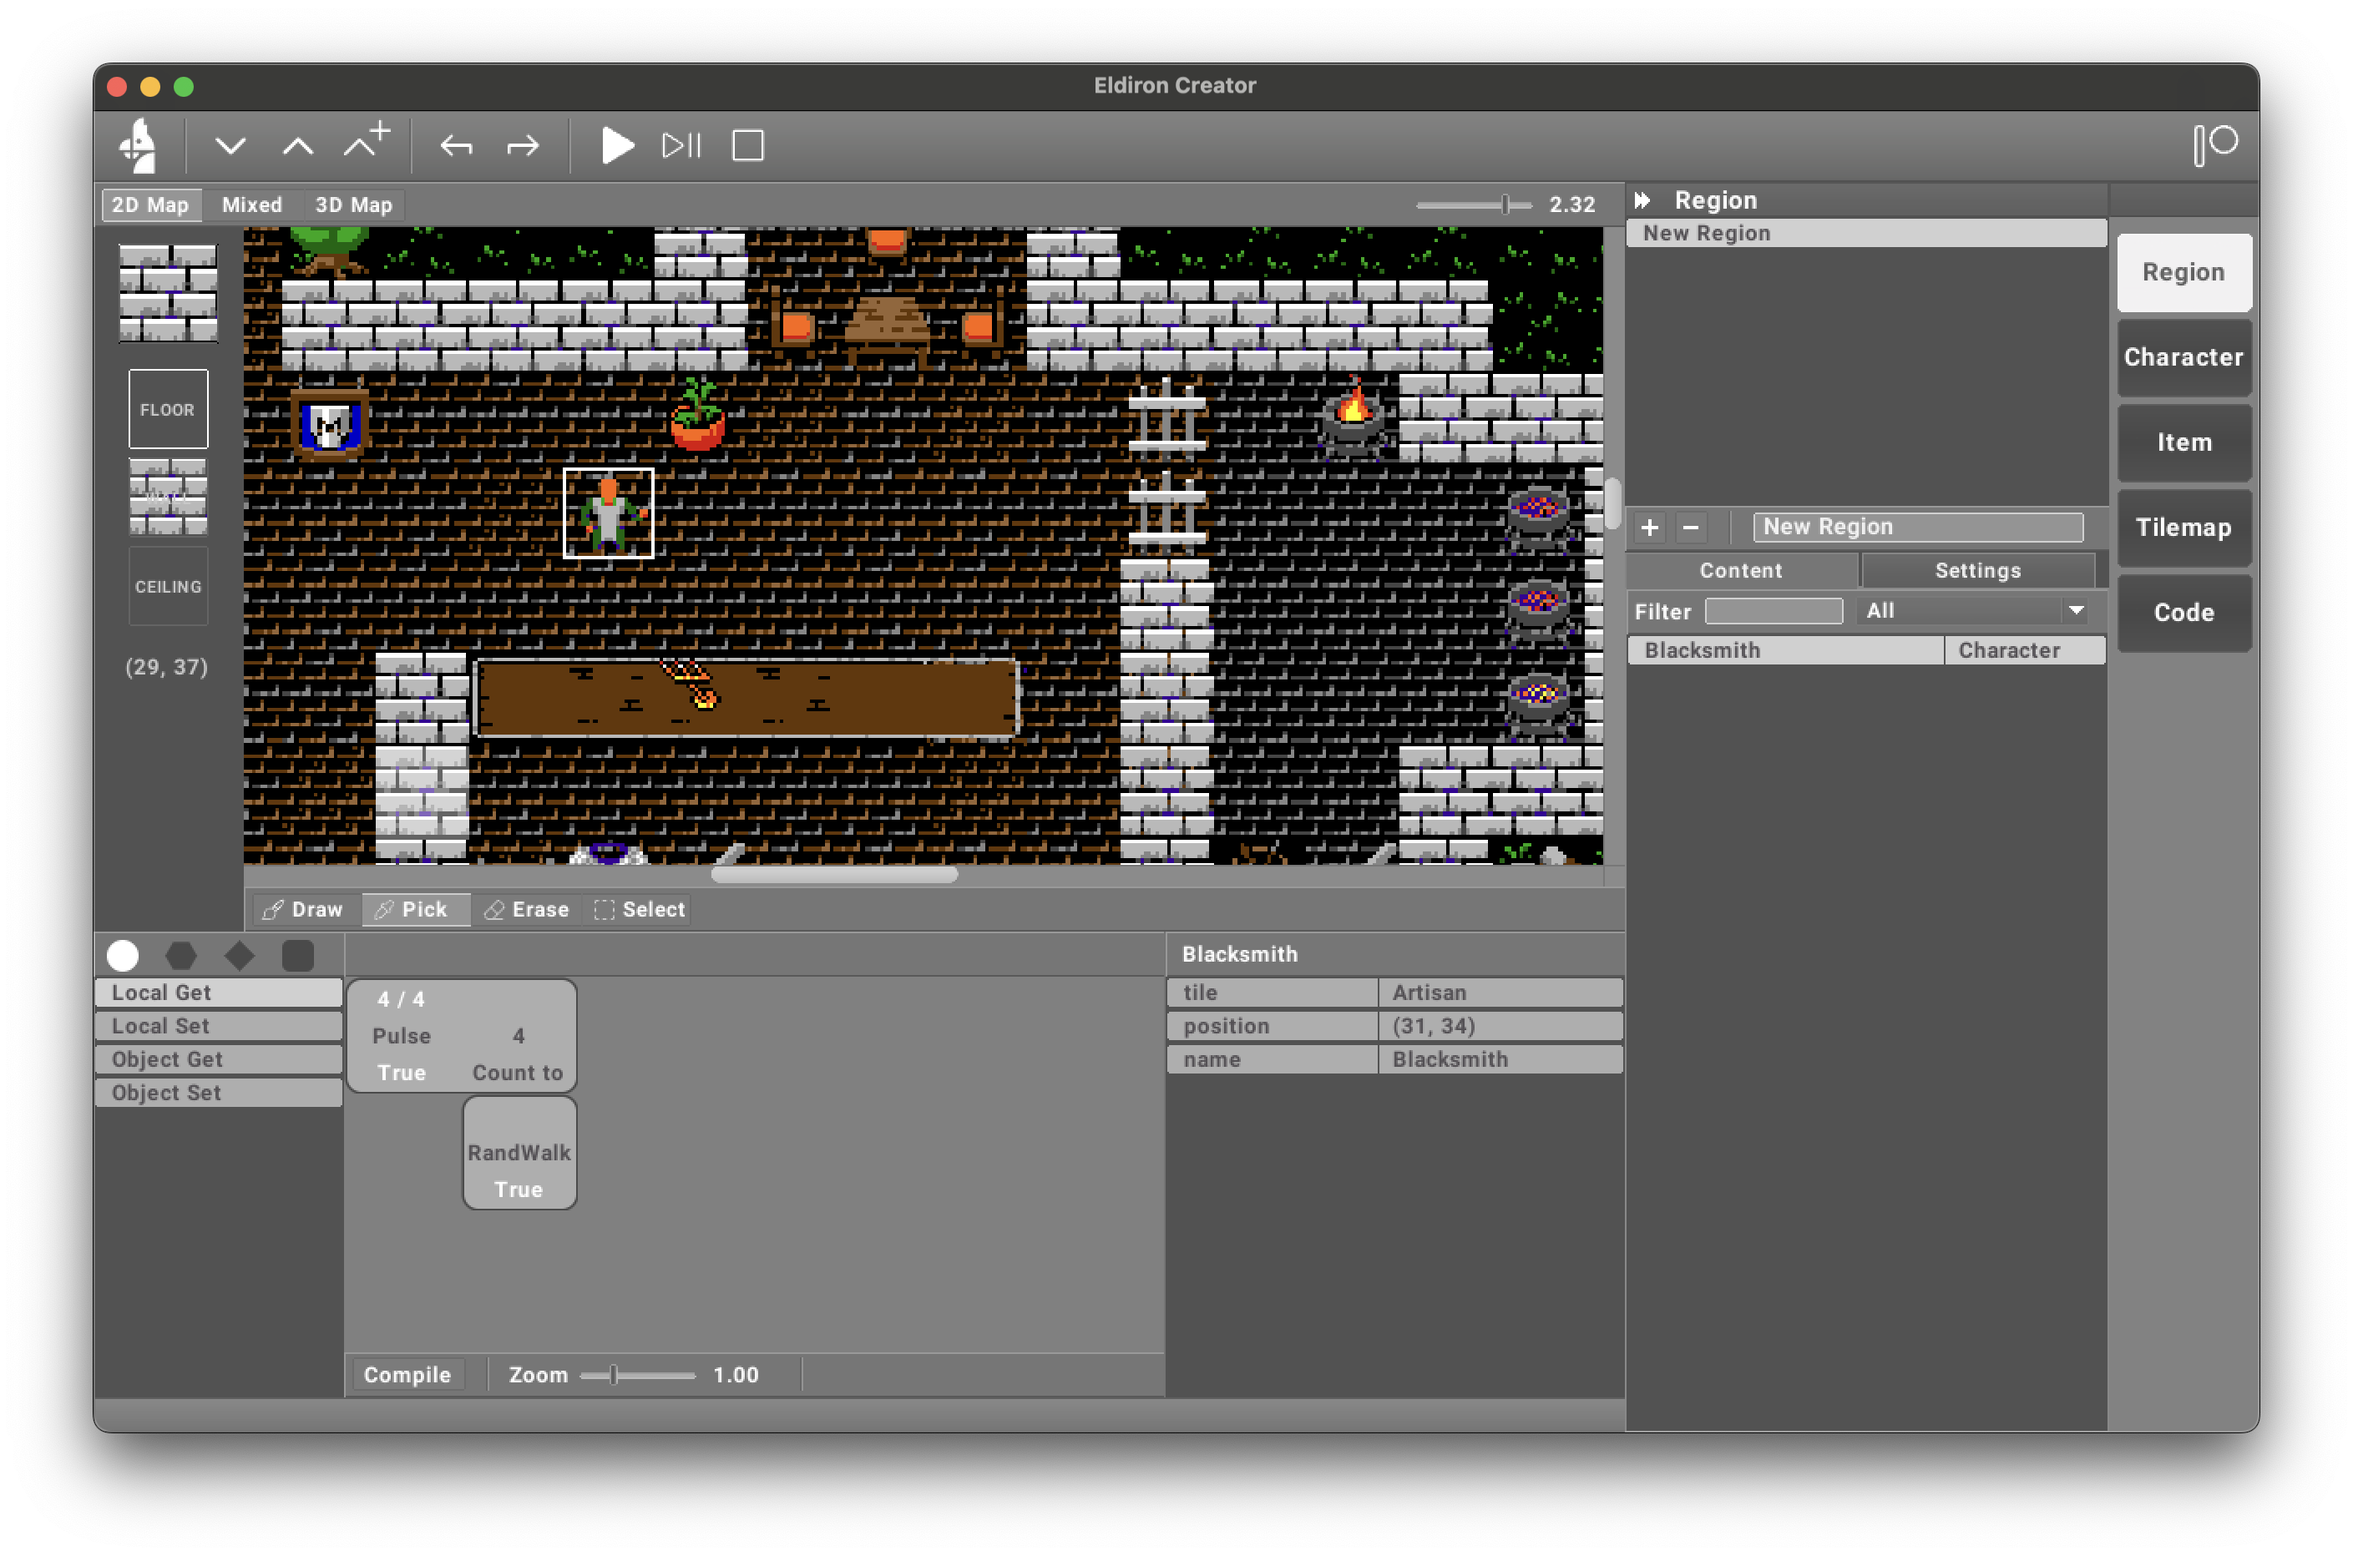
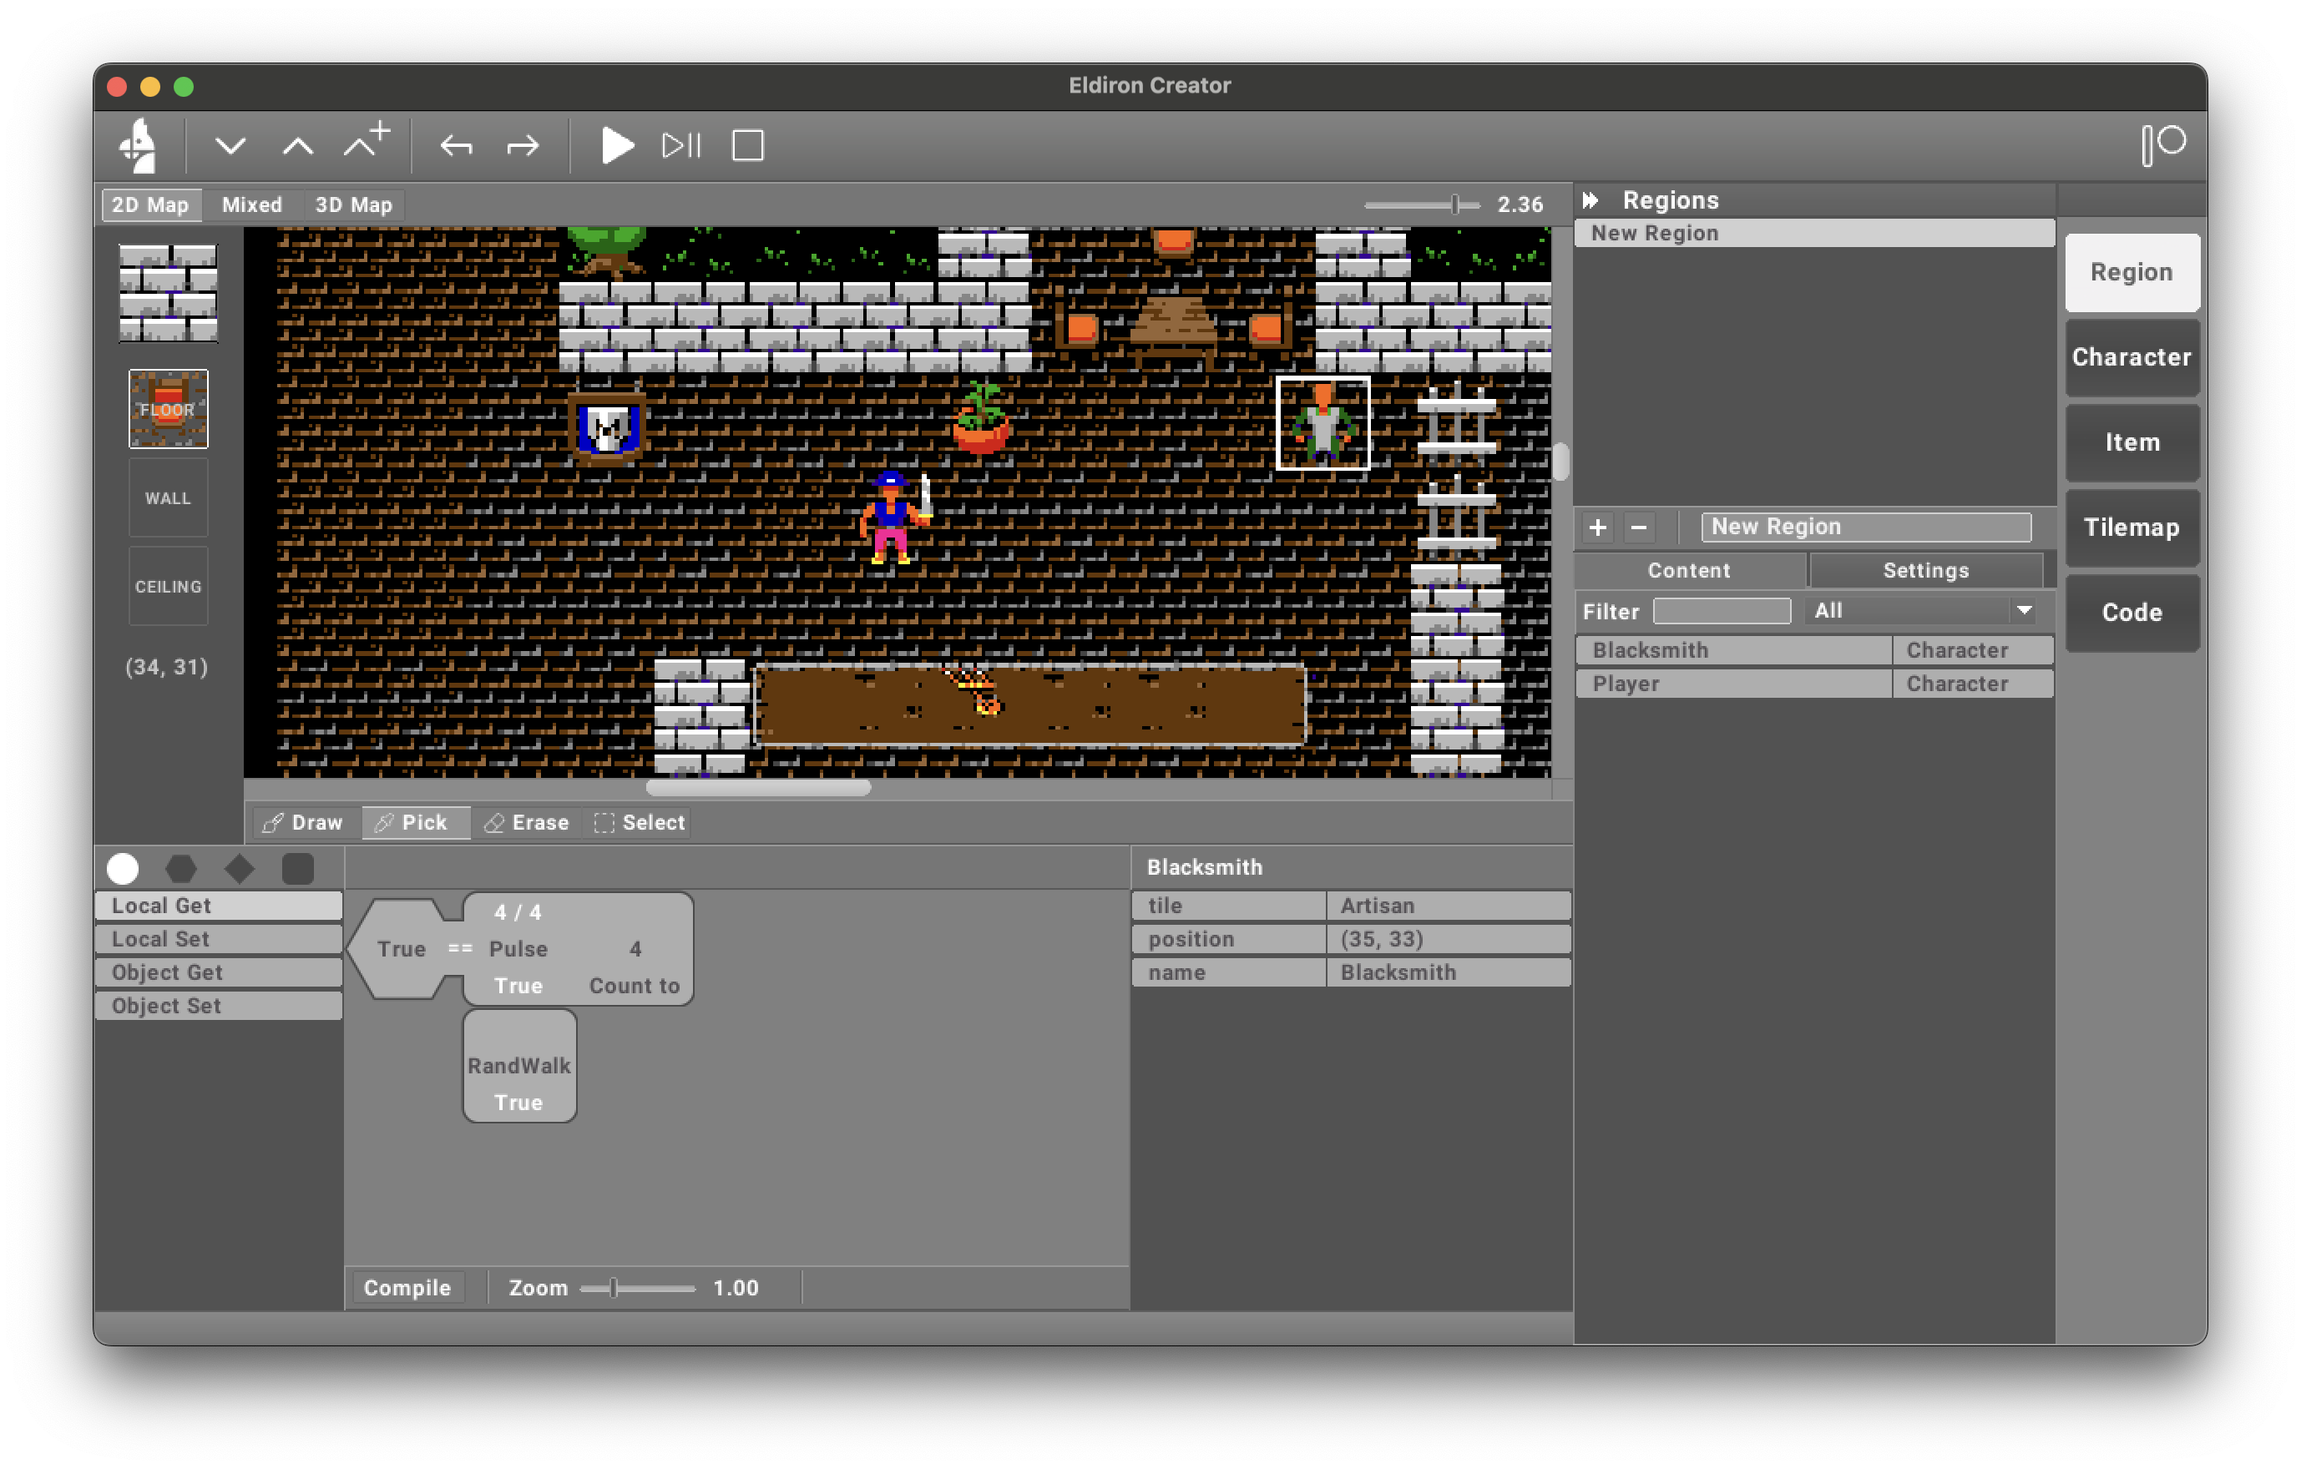
v0.88

Changed region(s): [[0.0312, 0.0312, 0.9673, 0.9375], [0.6865, 0.9062, 0.9673, 0.9375]]

diff --git a/content/basics/whatsnew/_index.md b/content/basics/whatsnew/_index.md
@@ -3,7 +3,19 @@ title: "What's New"
 weight: 1
 ---
 
-![CodeGrid](./character_screenshot.png?classes=left)
+### Eldiron v0.8.8 and Video (January 21st, 2023)
+
+Eldiron v0.8.8 is now available on [GitHub](https://github.com/markusmoenig/Eldiron/releases).
+
+Here is a short video about the new concepts in the new codebase.
+
+First, when I select a character instance, you see the visual, grid based scripting language which I wrote for Eldiron which I call CodeGridFX. You can visually see how the values change as the server is running. The NPC moves around based on a pulse counter, the player character moves on keyboard based input.
+
+The other new concept is that Eldiron Creator is now build from the ground up for live editing. Meaning you can play your game while you create it. When I change the region by drawing wall tiles, the NPC becomes trapped, when I remove them via Undo, the NPC can move again. This will make it a fun way to create your game interactively while you play it (or you play it while you create it ?).
+
+{{< youtube hrhmtCG9ePw >}}
+
+---
 
 ### First Eldiron Test Release (January 12th, 2023)
 

diff --git a/content/_index.md b/content/_index.md
@@ -10,18 +10,15 @@ Eldiron is open source and licensed under the MIT.
 
 ---
 
-### Rewrite of Eldiron in Progress
+The first early test releases for the new code base are available on [GitHub](https://github.com/markusmoenig/Eldiron/releases).
 
-The first early test release for the new code base (v0.86) is available on  [GitHub](https://github.com/markusmoenig/Eldiron/releases)
-
-The documentation on this site will soon be updated to reflect the new code base as well.
+If you want to support the Eldiron project, please consider joining my [Patreon](https://www.patreon.com/eldiron).
 
 ---
 
 ![Screenshot](character_screenshot.png)
-![Screenshot](tilemap_screenshot.png)
 
-<!-- {{< youtube FqTC6Yp8tOk >}} -->
+{{< youtube hrhmtCG9ePw >}}
 
 # Sponsors
 
